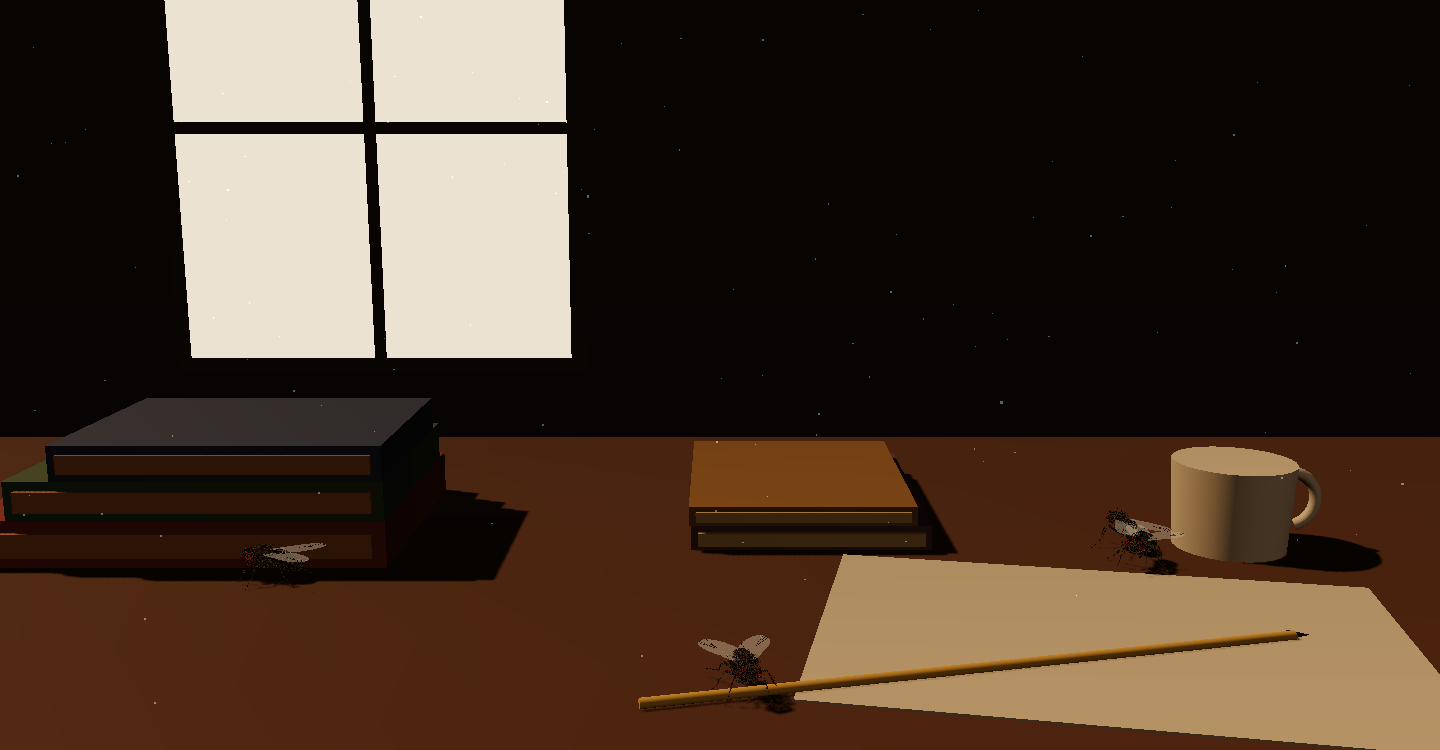
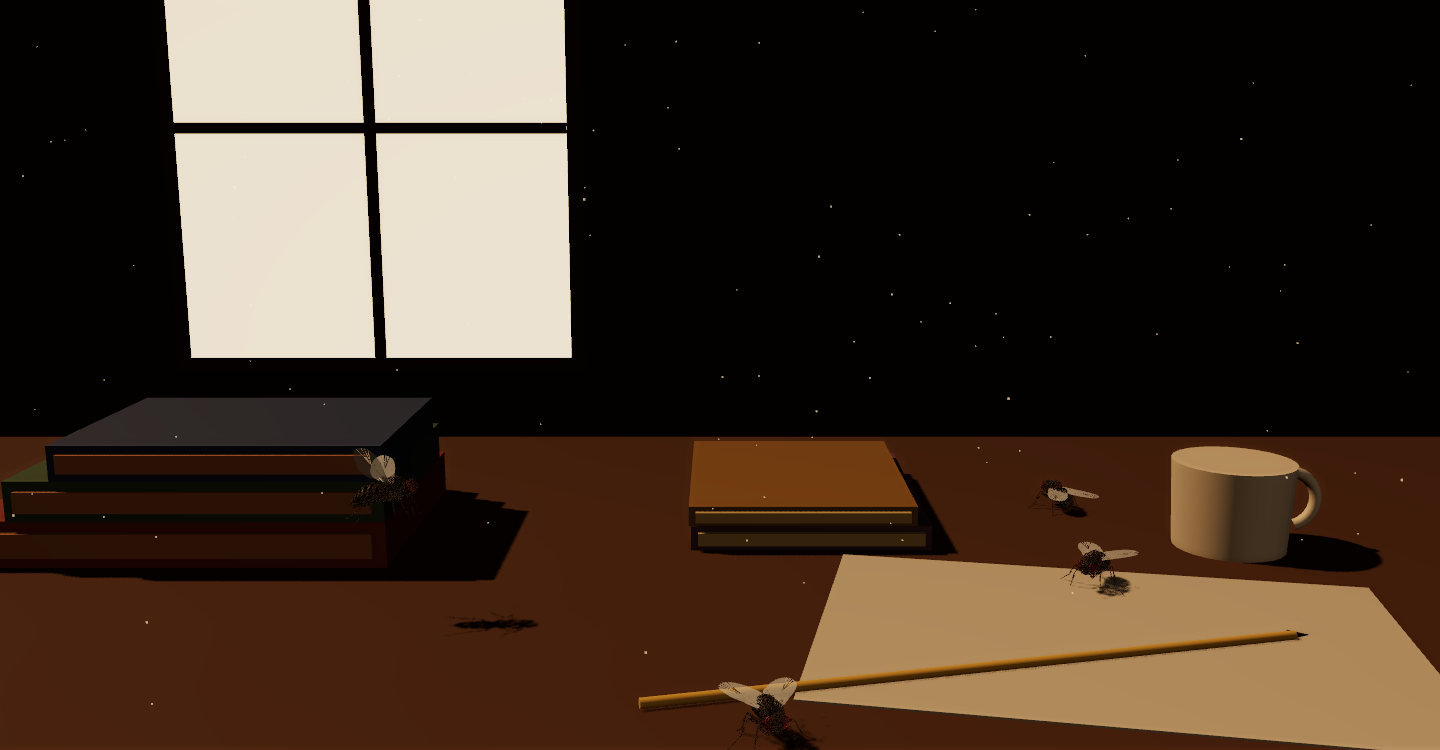
Give the wallpaper a Show Brain menu for Fly world
Wallpaper.swift gains a Show Brain item (Fly world only, remembered in defaults) that drives window.sceneBrain on every screen; the wallpaper page carries the brain panel markup, and main.js exposes sceneBrain before the pack loads so the host's intent survives a slow fetch. Gallery preview regenerated from the current scene: anatomical flies with AO and the warm vignette. README's Usage section mentions the brain window.

diff --git a/wallpaper/Wallpaper.swift b/wallpaper/Wallpaper.swift
@@ -115,6 +115,7 @@ final class Wallpaper: NSObject, WKNavigationDelegate, WKScriptMessageHandler {
   let window: DesktopWindow
   let view: WKWebView
   private var loaded = false
+  private var brain = false
   private var inside = false
   private var rate = 0
   private var battery = false
@@ -239,7 +240,16 @@ final class Wallpaper: NSObject, WKNavigationDelegate, WKScriptMessageHandler {
       """
       typeof scenePower === 'function' && scenePower(\(battery ? "true" : "false"));
       typeof sceneRate === 'function' && sceneRate(\(rate));
+      typeof sceneBrain === 'function' && sceneBrain(\(brain ? "true" : "false"));
       """)
+  }
+
+  /// The live brain window, toggled from the menu bar. Only Fly world answers
+  /// the call; every other scene ignores it.
+  func setBrain(_ on: Bool) {
+    guard brain != on else { return }
+    brain = on
+    send()
   }
 
   /// A pinch of food, asked for from the menu rather than by clicking. The
@@ -328,8 +338,11 @@ final class Controller: NSObject, NSApplicationDelegate, NSMenuDelegate {
   private let state = NSMenuItem()
   private let pause = NSMenuItem()
   private let feed = NSMenuItem()
+  private let brainItem = NSMenuItem()
   private var worldItems: [NSMenuItem] = []
   private var world = World.selected
+  /// Whether the live brain window is shown. Only Fly world draws it.
+  private var brainShown = UserDefaults.standard.bool(forKey: "brain")
   private var applied = 0
   private var pointerTimer: Timer?
   private var pointerRate = 0
@@ -434,6 +447,7 @@ final class Controller: NSObject, NSApplicationDelegate, NSMenuDelegate {
     layout = NSScreen.screens.map(\.frame)
     for screen in screens { screen.close() }
     screens = NSScreen.screens.map { Wallpaper(screen: $0, root: root, world: world) }
+    for screen in screens { screen.setBrain(brainShown) }
     applyRate()
   }
 
@@ -572,6 +586,10 @@ final class Controller: NSObject, NSApplicationDelegate, NSMenuDelegate {
     feed.target = self
     feed.action = #selector(feedEveryScreen)
     menu.addItem(feed)
+    brainItem.title = "Show Brain"
+    brainItem.target = self
+    brainItem.action = #selector(toggleBrain)
+    menu.addItem(brainItem)
     pause.target = self
     pause.action = #selector(togglePause)
     menu.addItem(pause)
@@ -611,6 +629,9 @@ final class Controller: NSObject, NSApplicationDelegate, NSMenuDelegate {
     // again and then all arrive at once, so Feed says so rather than promising a feeding.
     feed.isEnabled = applied > 0 && world.canFeed
     feed.title = world.feedTitle
+    // The brain window only exists in Fly world; everywhere else the item says so.
+    brainItem.state = brainShown ? .on : .off
+    brainItem.isEnabled = world == .flyscape
   }
 
   /// Every screen, because each one runs its own world rather than one
@@ -618,6 +639,13 @@ final class Controller: NSObject, NSApplicationDelegate, NSMenuDelegate {
   /// would leave the others unfed.
   @objc private func feedEveryScreen() {
     for screen in screens { screen.feed() }
+  }
+
+  /// Fly world's live brain window, on every screen, remembered across restarts.
+  @objc private func toggleBrain() {
+    brainShown.toggle()
+    UserDefaults.standard.set(brainShown, forKey: "brain")
+    for screen in screens { screen.setBrain(brainShown) }
   }
 
   /// Every screen changes together: the scenes are separate worlds, not one world with

diff --git a/scenes/flyscape/src/main.js b/scenes/flyscape/src/main.js
@@ -53,6 +53,17 @@ window.scenePower = (battery) => {
 // nobody is drawing is sugar the flies never smell, and it would all arrive at once
 // whenever the world started again.
 let sprinkle = null;
+// The live brain window, for the wallpaper's menu as well as the preview's
+// button: the host calls sceneBrain(true/false) before or after the pack
+// loads, so the intent is kept and applied when the view is ready.
+let brainWanted = false;
+let brainView = null;
+let setBrainVisible = (on) => {
+  brainWanted = Boolean(on);
+  brainView?.setVisible(brainWanted);
+  document.querySelector("#brain")?.setAttribute("aria-pressed", String(brainWanted));
+};
+window.sceneBrain = setBrainVisible;
 window.sceneFeed = () => {
   if (sprinkle && loop?.state.running) sprinkle();
 };
@@ -124,7 +135,6 @@ async function start() {
   });
   const bodyFactory = flybodyPack ? createFlybodyRigFactory(flybodyPack) : null;
   let brain = createBrain({ seed: 20261016 });
-  let brainView = null;
   // The connectome engine upgrades the placeholder once its pack loads. A fresh
   // clone without generated data keeps the scripted circuit: nothing here may
   // assume the fetch succeeds.
@@ -133,24 +143,19 @@ async function start() {
       brain = createConnectomeBrain(pack, { flies: flies.flies.length });
       const panel = document.querySelector("#brain-panel");
       const toggle = document.querySelector("#brain");
-      if (panel && toggle) {
+      if (panel) {
         brainView = createBrainView(panel, pack, brain, { flies: flies.flies.length });
-        toggle.disabled = false;
-        toggle.addEventListener("click", () => {
-          brainView.setVisible(!brainView.visible);
-          toggle.setAttribute("aria-pressed", String(brainView.visible));
-        });
+        if (toggle) {
+          toggle.disabled = false;
+          toggle.addEventListener("click", () => setBrainVisible(!brainView.visible));
+        }
         document.addEventListener("keydown", (event) => {
           if (event.repeat || event.target.closest("button,select,input,textarea,a,[contenteditable]")) return;
-          if (event.key.toLowerCase() === "b") {
-            brainView.setVisible(!brainView.visible);
-            toggle.setAttribute("aria-pressed", String(brainView.visible));
-          }
+          if (event.key.toLowerCase() === "b") setBrainVisible(!brainView.visible);
         });
-        if (query.get("brain") === "1") {
-          brainView.setVisible(true);
-          toggle.setAttribute("aria-pressed", "true");
-        }
+        if (query.get("brain") === "1") setBrainVisible(true);
+        // The wallpaper host may have asked before the pack landed.
+        setBrainVisible(brainWanted);
       }
     },
     (error) => console.warn("flyscape: connectome pack missing, placeholder brain;", error.message),

diff --git a/scenes/flyscape/wallpaper.html b/scenes/flyscape/wallpaper.html
@@ -22,6 +22,13 @@
   <body>
     <main id="stage" aria-label="Interactive desk with fruit flies">
       <canvas id="scene" tabindex="-1"></canvas>
+      <aside id="brain-panel" aria-label="Live fly brain" hidden>
+        <h2>fly 1 · live brain</h2>
+        <canvas width="300" height="300"></canvas>
+        <div class="brain-flies" role="group" aria-label="Watched fly"></div>
+        <div class="brain-rates" aria-live="off"></div>
+        <p>somas flash where spikes fire · rates are the watched fly</p>
+      </aside>
       <div id="loading" role="status"><p>Loading world…</p></div>
       <div id="error" role="alert" hidden></div>
     </main>

diff --git a/README.md b/README.md
@@ -29,7 +29,7 @@ To update, pull the latest source and run the installer again. To remove it, run
 
 ## Usage
 
-Click the Deskworlds icon in the menu bar to switch worlds, feed the creatures, stir the fire, or pause. Desktop icons and clicks work as usual.
+Click the Deskworlds icon in the menu bar to switch worlds, feed the creatures, stir the fire, or pause. In Fly world, **Show Brain** opens the live brain window: the fly's nervous system at real soma positions, spikes flashing where they fire, with population rates. Desktop icons and clicks work as usual.
 
 The wallpaper lowers its frame rate on battery or when windows cover the desktop, and stops when the desktop is hidden, the screen is locked, or Low Power Mode is on. It reads your cursor position and window sizes for this, but does not record keystrokes or request any special permissions.
 
